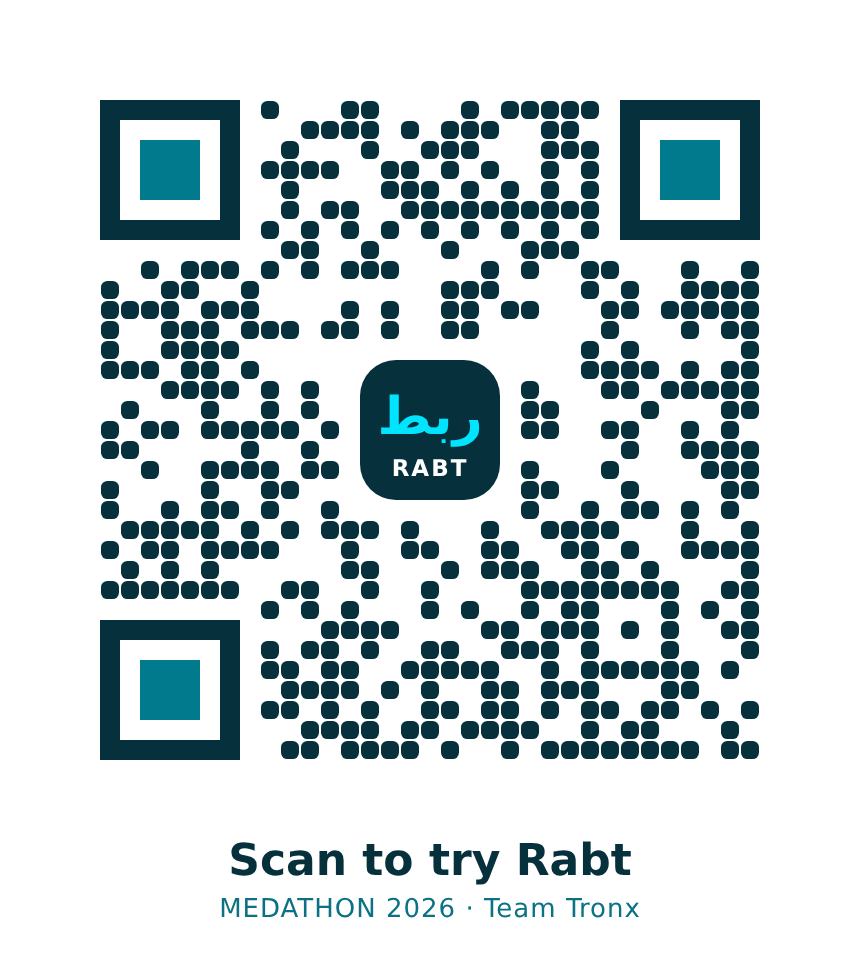
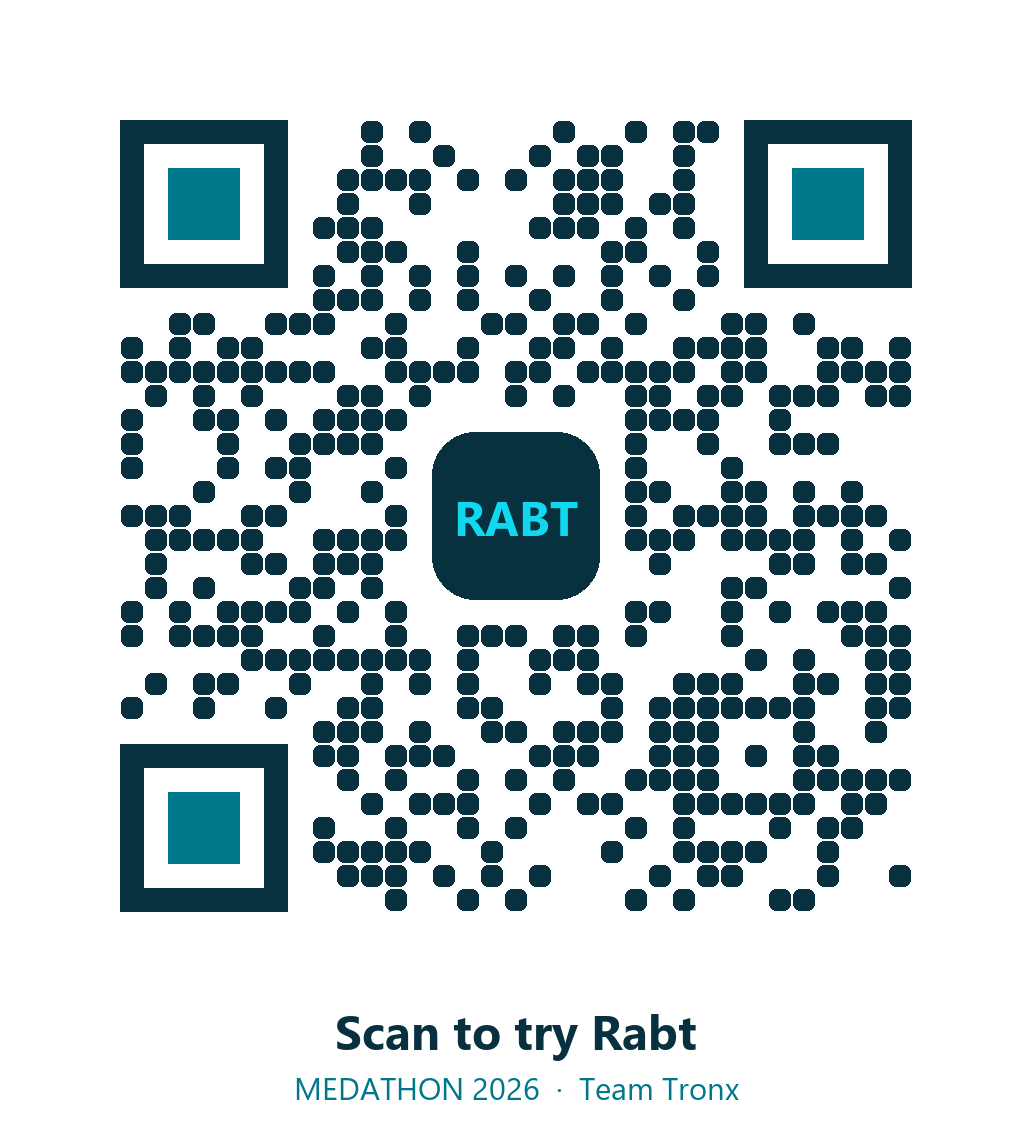
Update Rabt demo link and branded QR code

diff --git a/README.md b/README.md
@@ -4,7 +4,7 @@
 
 Team Tronx · MEDATHON 2026 (Saudi Youth Healthcare Forum, Jeddah) · Track 1: Crowd & Patient Flow · MED-5XWGZT
 
-**Live prototype:** https://rabt-snowy.vercel.app/
+**Live prototype:** https://rabt-tan.vercel.app/
 
 ## Try the guided demo
 
@@ -12,7 +12,7 @@ Open the prototype and choose **Start guided demo**. Use **Next** to follow Ahma
 
 The demo uses sample records, simulated SMS, and an in-app preview of the family status page. All roles share the same browser data so you can switch between them without signing in.
 
-<img src="docs/qr.png" alt="QR code that opens the Rabt prototype" width="200">
+<img src="docs/qr.png" alt="Scan the RABT QR code to open the live prototype" width="240">
 
 ![Recovery ward screen](docs/screenshots/ward-screen.png)
 
